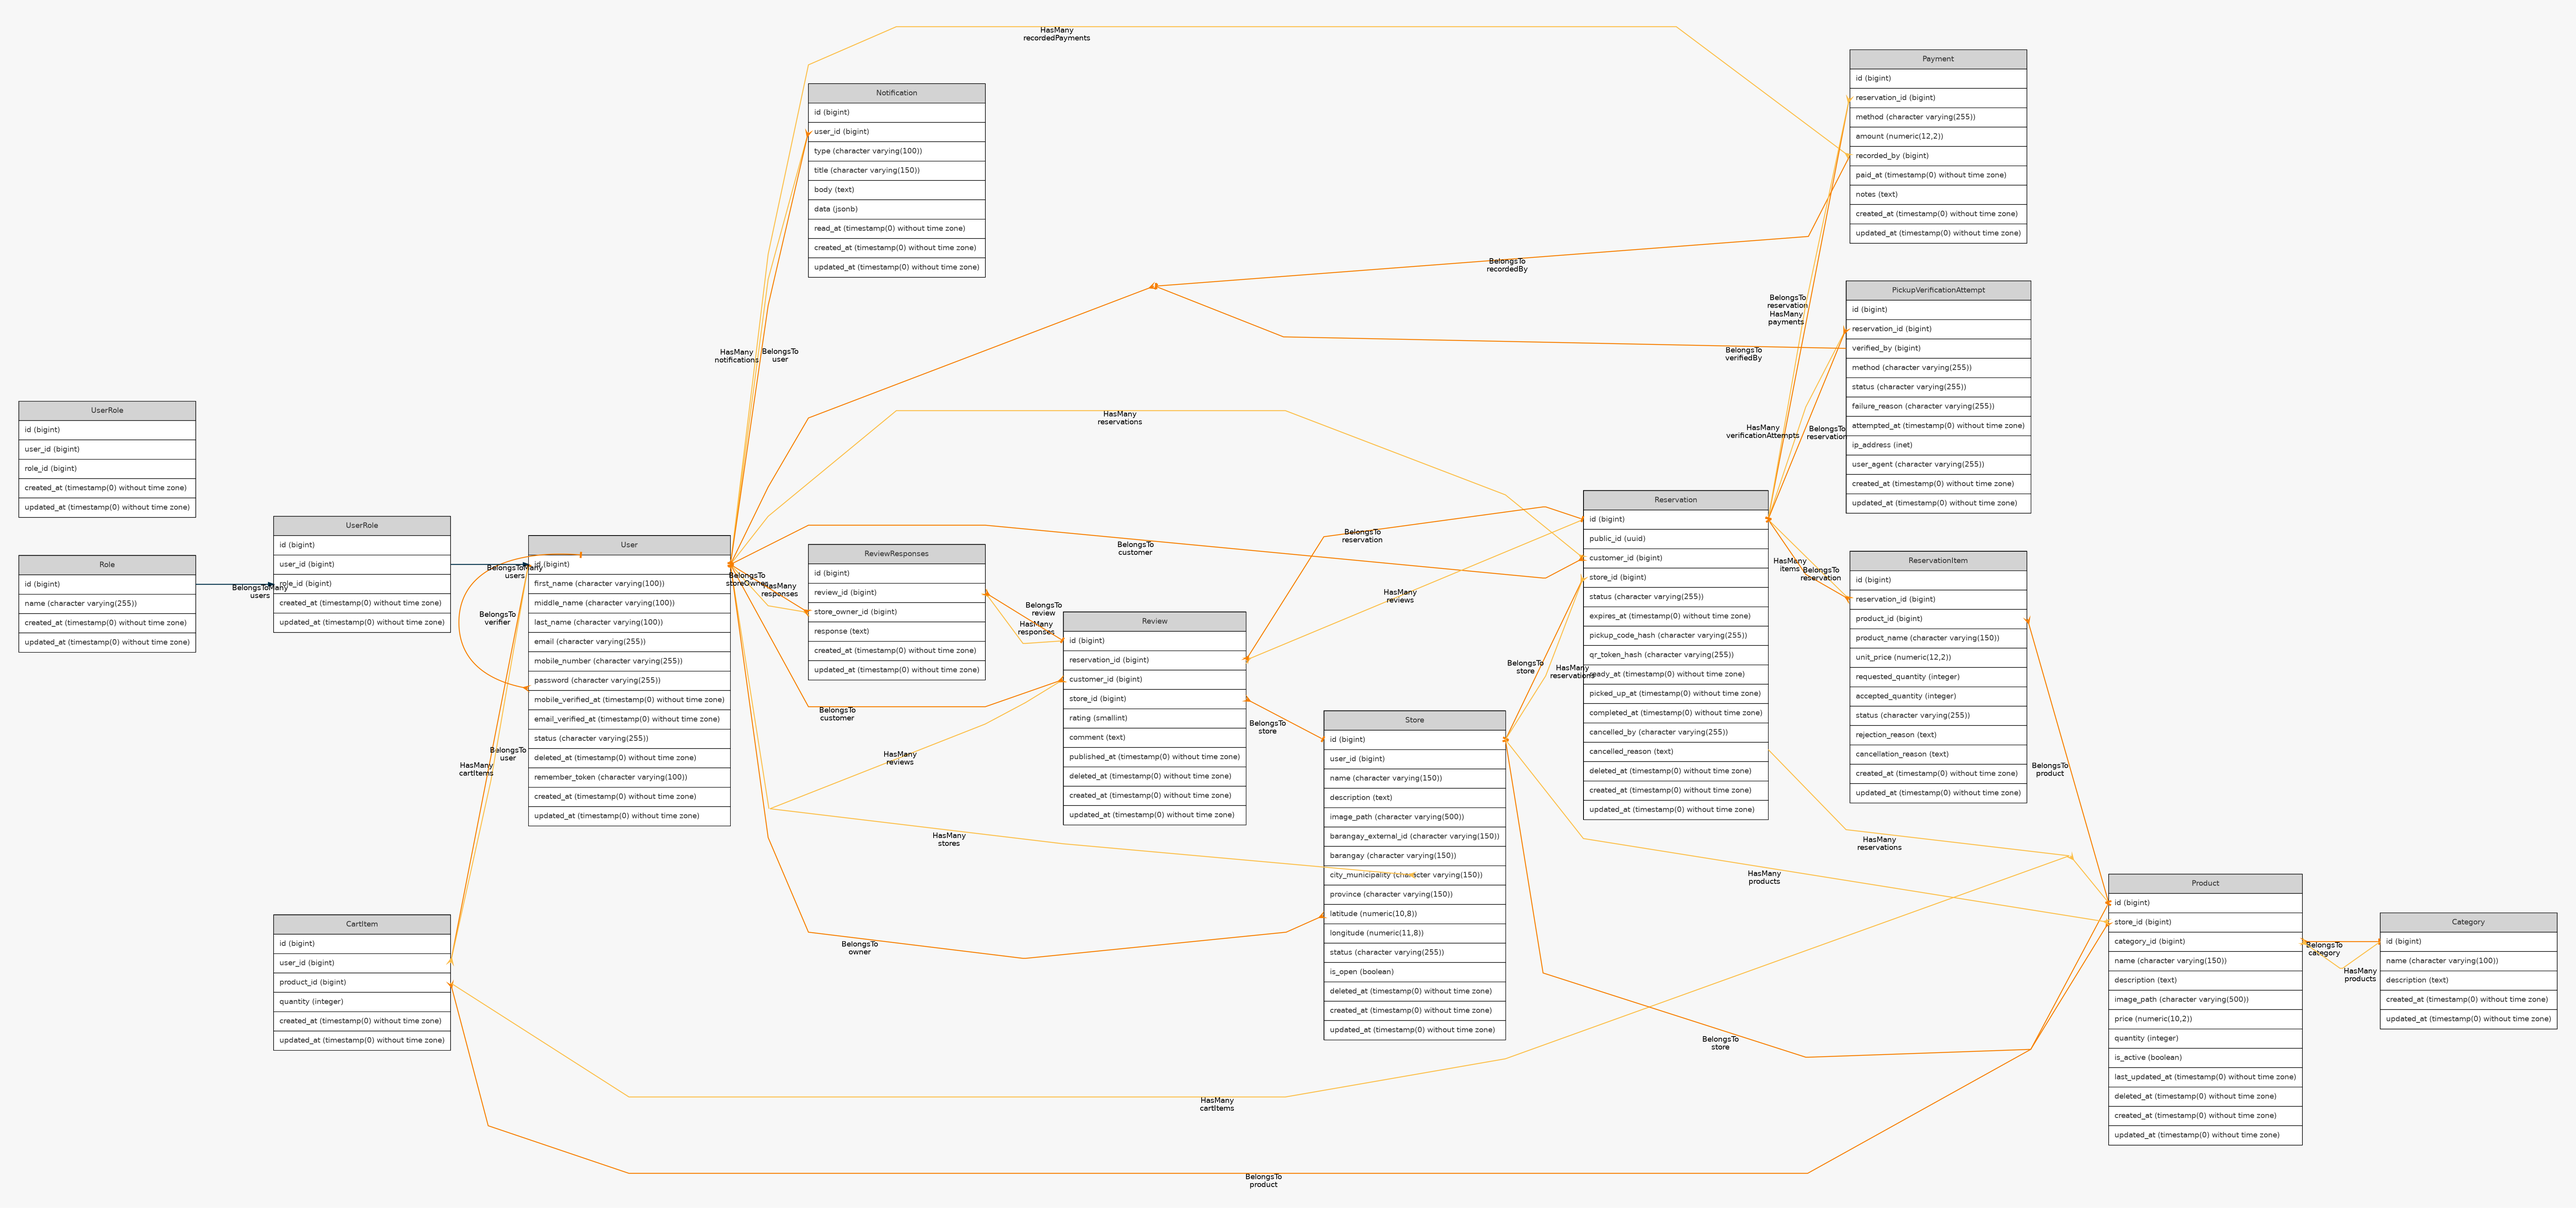
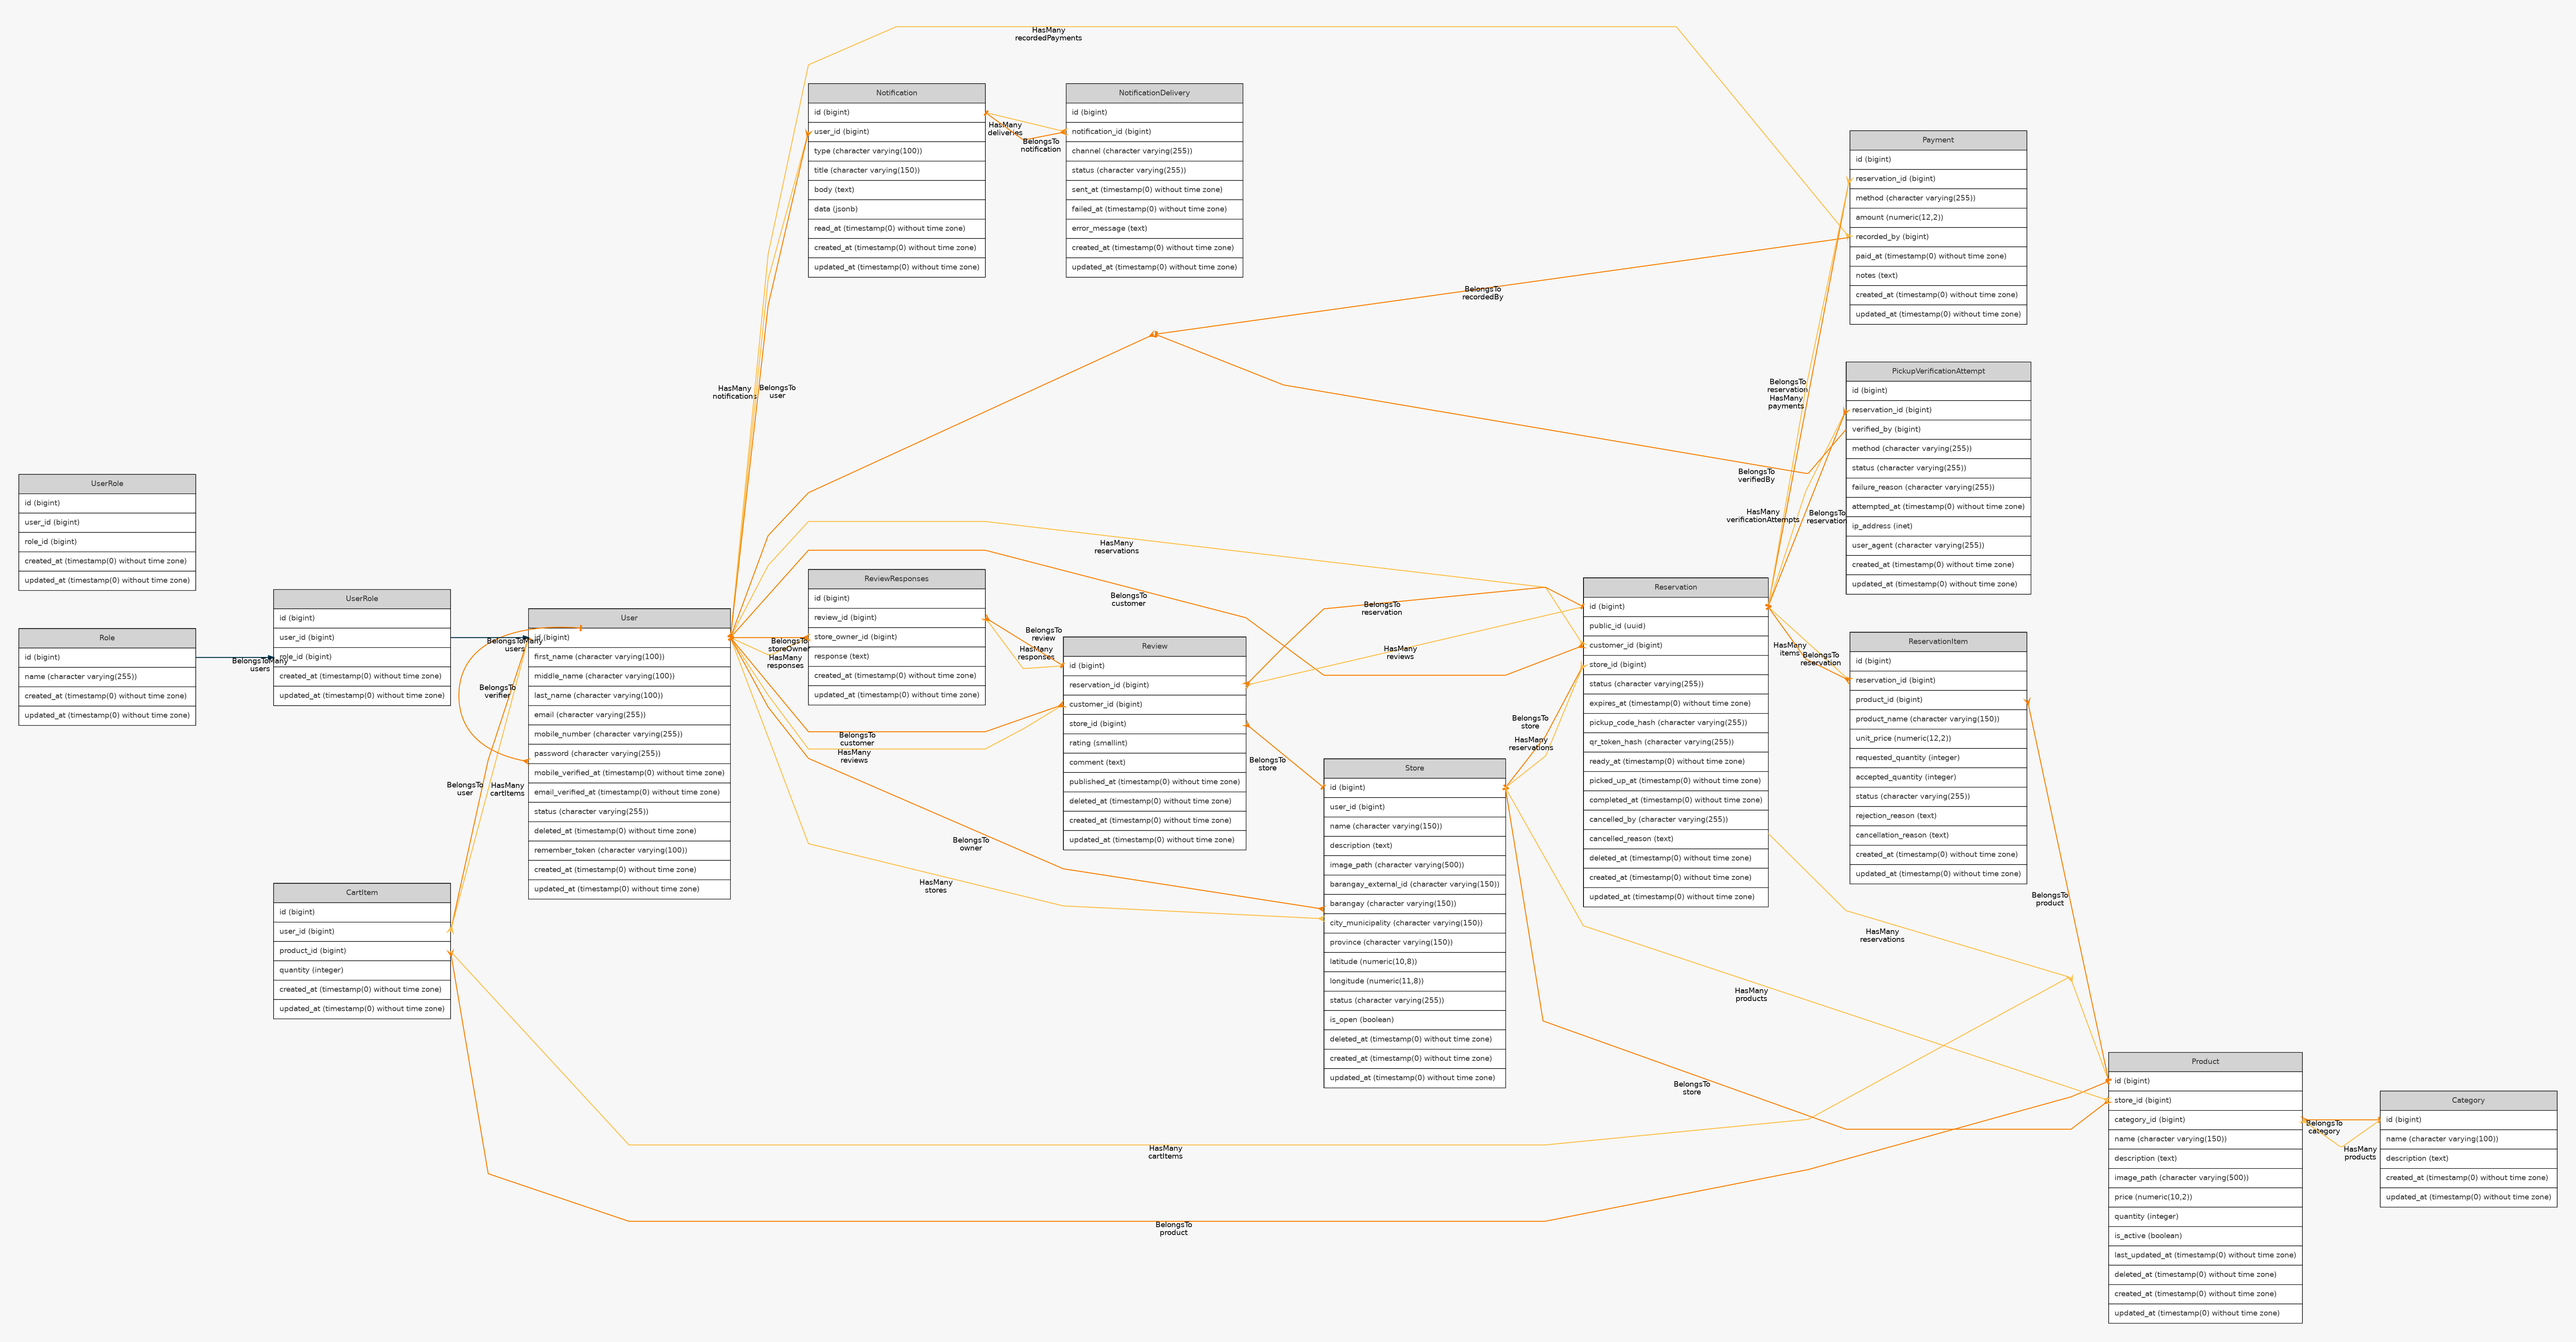
feat(notification): add NotificationDelivery model, migration, and relationships with Notification

diff --git a/Backend/_ide_helper_models.php b/Backend/_ide_helper_models.php
@@ -57,11 +57,58 @@ namespace App\Models{
 
 namespace App\Models{
 /**
+ * @property int $id
+ * @property int $user_id
+ * @property string $type
+ * @property string $title
+ * @property string $body
+ * @property string|null $data
+ * @property \Illuminate\Support\Carbon|null $read_at
+ * @property \Illuminate\Support\Carbon|null $created_at
+ * @property \Illuminate\Support\Carbon|null $updated_at
+ * @property-read \App\Models\User|null $user
  * @method static \Illuminate\Database\Eloquent\Builder<static>|Notification newModelQuery()
  * @method static \Illuminate\Database\Eloquent\Builder<static>|Notification newQuery()
  * @method static \Illuminate\Database\Eloquent\Builder<static>|Notification query()
+ * @method static \Illuminate\Database\Eloquent\Builder<static>|Notification whereBody($value)
+ * @method static \Illuminate\Database\Eloquent\Builder<static>|Notification whereCreatedAt($value)
+ * @method static \Illuminate\Database\Eloquent\Builder<static>|Notification whereData($value)
+ * @method static \Illuminate\Database\Eloquent\Builder<static>|Notification whereId($value)
+ * @method static \Illuminate\Database\Eloquent\Builder<static>|Notification whereReadAt($value)
+ * @method static \Illuminate\Database\Eloquent\Builder<static>|Notification whereTitle($value)
+ * @method static \Illuminate\Database\Eloquent\Builder<static>|Notification whereType($value)
+ * @method static \Illuminate\Database\Eloquent\Builder<static>|Notification whereUpdatedAt($value)
+ * @method static \Illuminate\Database\Eloquent\Builder<static>|Notification whereUserId($value)
  */
 	class Notification extends \Eloquent {}
+}
+
+namespace App\Models{
+/**
+ * @property int $id
+ * @property int $notification_id
+ * @property string $channel
+ * @property string $status
+ * @property \Illuminate\Support\Carbon|null $sent_at
+ * @property \Illuminate\Support\Carbon|null $failed_at
+ * @property string|null $error_message
+ * @property \Illuminate\Support\Carbon|null $created_at
+ * @property \Illuminate\Support\Carbon|null $updated_at
+ * @property-read \App\Models\Notification $notification
+ * @method static \Illuminate\Database\Eloquent\Builder<static>|NotificationDelivery newModelQuery()
+ * @method static \Illuminate\Database\Eloquent\Builder<static>|NotificationDelivery newQuery()
+ * @method static \Illuminate\Database\Eloquent\Builder<static>|NotificationDelivery query()
+ * @method static \Illuminate\Database\Eloquent\Builder<static>|NotificationDelivery whereChannel($value)
+ * @method static \Illuminate\Database\Eloquent\Builder<static>|NotificationDelivery whereCreatedAt($value)
+ * @method static \Illuminate\Database\Eloquent\Builder<static>|NotificationDelivery whereErrorMessage($value)
+ * @method static \Illuminate\Database\Eloquent\Builder<static>|NotificationDelivery whereFailedAt($value)
+ * @method static \Illuminate\Database\Eloquent\Builder<static>|NotificationDelivery whereId($value)
+ * @method static \Illuminate\Database\Eloquent\Builder<static>|NotificationDelivery whereNotificationId($value)
+ * @method static \Illuminate\Database\Eloquent\Builder<static>|NotificationDelivery whereSentAt($value)
+ * @method static \Illuminate\Database\Eloquent\Builder<static>|NotificationDelivery whereStatus($value)
+ * @method static \Illuminate\Database\Eloquent\Builder<static>|NotificationDelivery whereUpdatedAt($value)
+ */
+	class NotificationDelivery extends \Eloquent {}
 }
 
 namespace App\Models{
@@ -406,7 +453,7 @@ namespace App\Models{
  * @property \Illuminate\Support\Carbon|null $updated_at
  * @property-read \Illuminate\Database\Eloquent\Collection<int, \App\Models\CartItem> $cartItems
  * @property-read int|null $cart_items_count
- * @property-read \Illuminate\Notifications\DatabaseNotificationCollection<int, \Illuminate\Notifications\DatabaseNotification> $notifications
+ * @property-read \Illuminate\Database\Eloquent\Collection<int, \App\Models\Notification> $notifications
  * @property-read int|null $notifications_count
  * @property-read \Illuminate\Database\Eloquent\Collection<int, \App\Models\Payment> $recordedPayments
  * @property-read int|null $recorded_payments_count

diff --git a/Backend/database/migrations/2026_08_05_065458_create_notification_deliveries_table.php b/Backend/database/migrations/2026_08_05_065458_create_notification_deliveries_table.php
@@ -1,0 +1,34 @@
+<?php
+
+use App\Models\Notification;
+use Illuminate\Database\Migrations\Migration;
+use Illuminate\Database\Schema\Blueprint;
+use Illuminate\Support\Facades\Schema;
+
+return new class extends Migration
+{
+    /**
+     * Run the migrations.
+     */
+    public function up(): void
+    {
+        Schema::create('notification_deliveries', function (Blueprint $table) {
+            $table->id();
+            $table->foreignIdFor(Notification::class)->constrained()->cascadeOnDelete();
+            $table->string('channel');
+            $table->string('status');
+            $table->timestamp('sent_at')->nullable();
+            $table->timestamp('failed_at')->nullable();
+            $table->text('error_message')->nullable();
+            $table->timestamps();
+        });
+    }
+
+    /**
+     * Reverse the migrations.
+     */
+    public function down(): void
+    {
+        Schema::dropIfExists('notification_deliveries');
+    }
+};

diff --git a/Backend/app/Models/NotificationDelivery.php b/Backend/app/Models/NotificationDelivery.php
@@ -1,0 +1,35 @@
+<?php
+
+namespace App\Models;
+
+use App\Enums\NotificationDeliveryStatus;
+use Illuminate\Database\Eloquent\Attributes\Fillable;
+use Illuminate\Database\Eloquent\Factories\HasFactory;
+use Illuminate\Database\Eloquent\Model;
+
+#[Fillable([
+    'notification_id',
+    'channel',
+    'status',
+    'sent_at',
+    'failed_at',
+    'error_message',
+])]
+class NotificationDelivery extends Model
+{
+    use HasFactory;
+
+    protected function casts(): array
+    {
+        return [
+            'sent_at' => 'datetime',
+            'failed_at' => 'datetime',
+            'status' => NotificationDeliveryStatus::class,
+        ];
+    }
+
+    public function notification()
+    {
+        return $this->belongsTo(Notification::class, 'notification_id');
+    }
+}

diff --git a/Backend/app/Models/Notification.php b/Backend/app/Models/Notification.php
@@ -31,4 +31,9 @@ class Notification extends Model
     {
         return $this->belongsTo(User::class, 'user_id');
     }
+
+    public function deliveries()
+    {
+        return $this->hasMany(NotificationDelivery::class, 'notification_id');
+    }
 }

diff --git a/Backend/app/Enums/NotificationDeliveryStatus.php b/Backend/app/Enums/NotificationDeliveryStatus.php
@@ -1,0 +1,10 @@
+<?php
+
+namespace App\Enums;
+
+enum NotificationDeliveryStatus: string
+{
+    case PENDING = 'pending';
+    case SENT = 'sent';
+    case FAILED = 'failed';
+}

diff --git a/Backend/app/Enums/NotificationDeliveryChannel.php b/Backend/app/Enums/NotificationDeliveryChannel.php
@@ -1,0 +1,10 @@
+<?php
+
+namespace App\Enums;
+
+enum NotificationDeliveryChannel: string
+{
+    case IN_APP = 'in_app';
+    case EMAIL = 'email';
+    case SMS = 'sms';
+}
